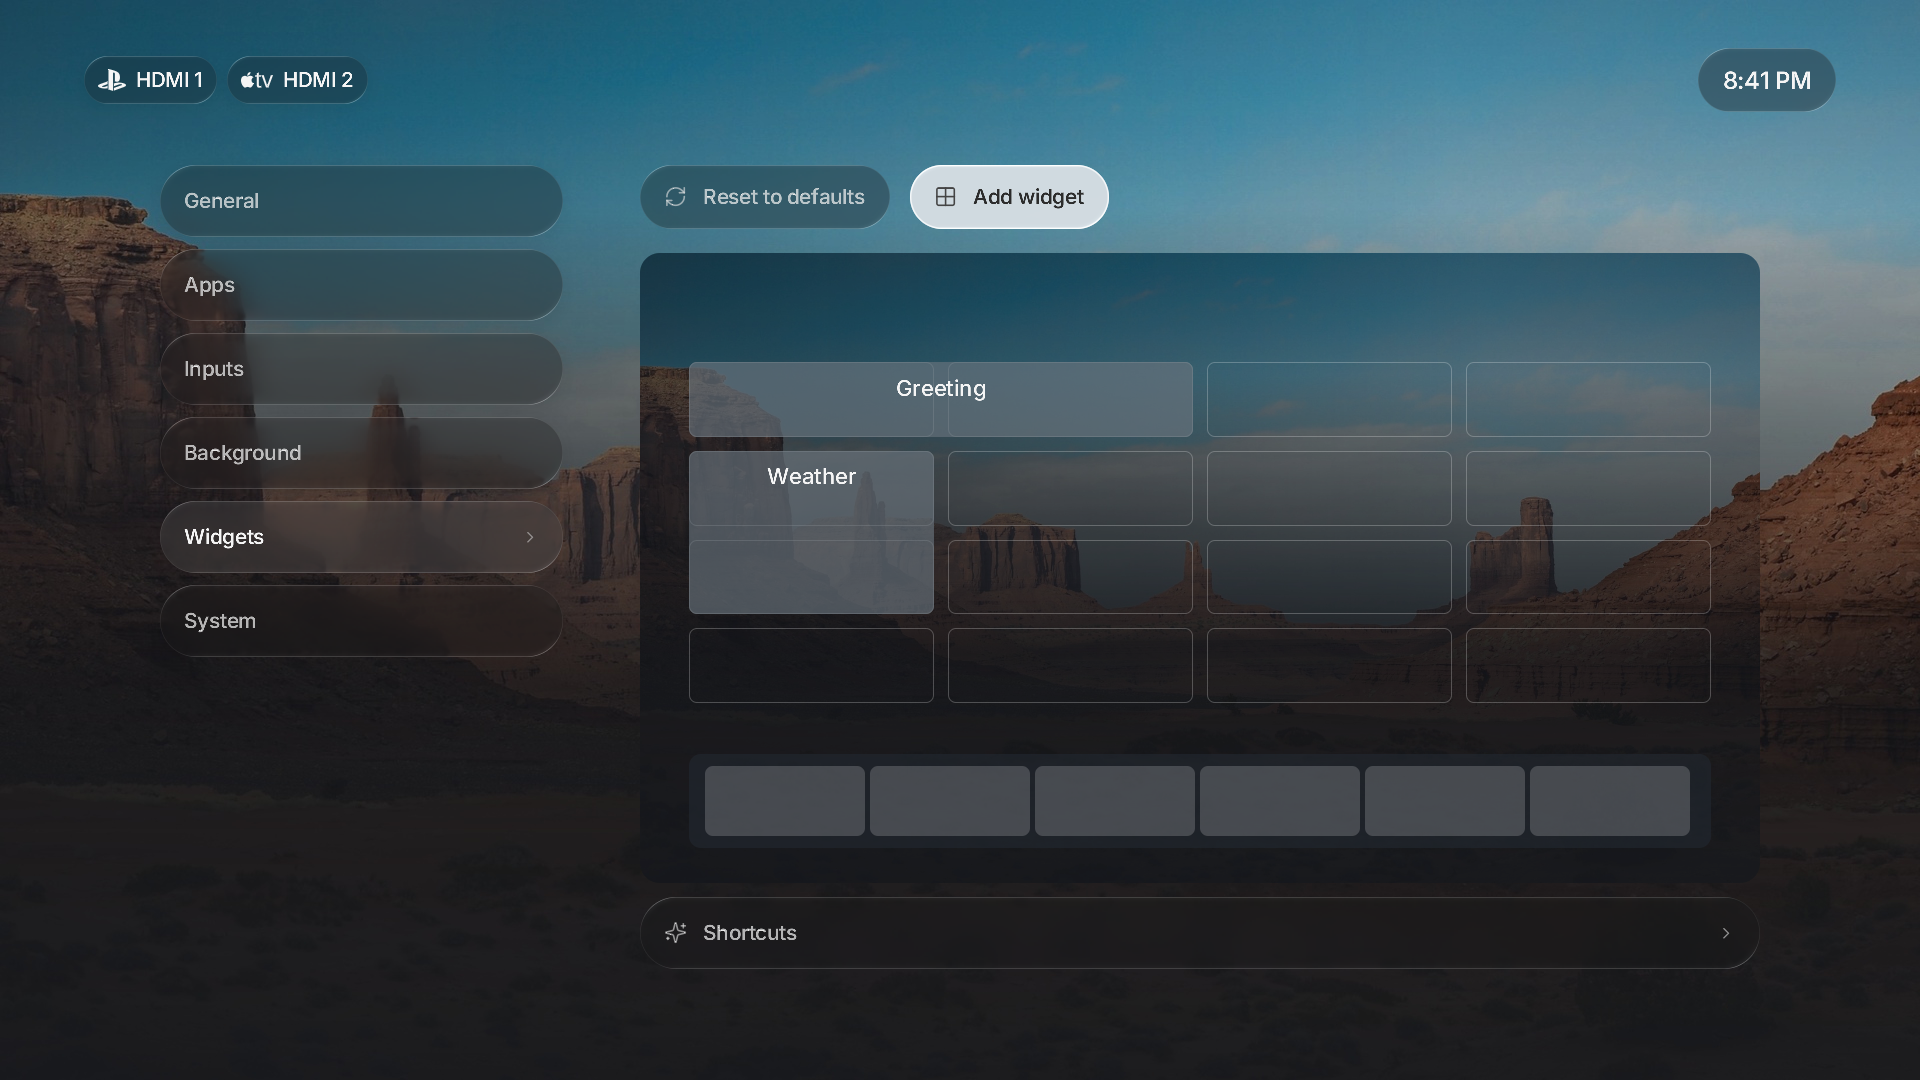
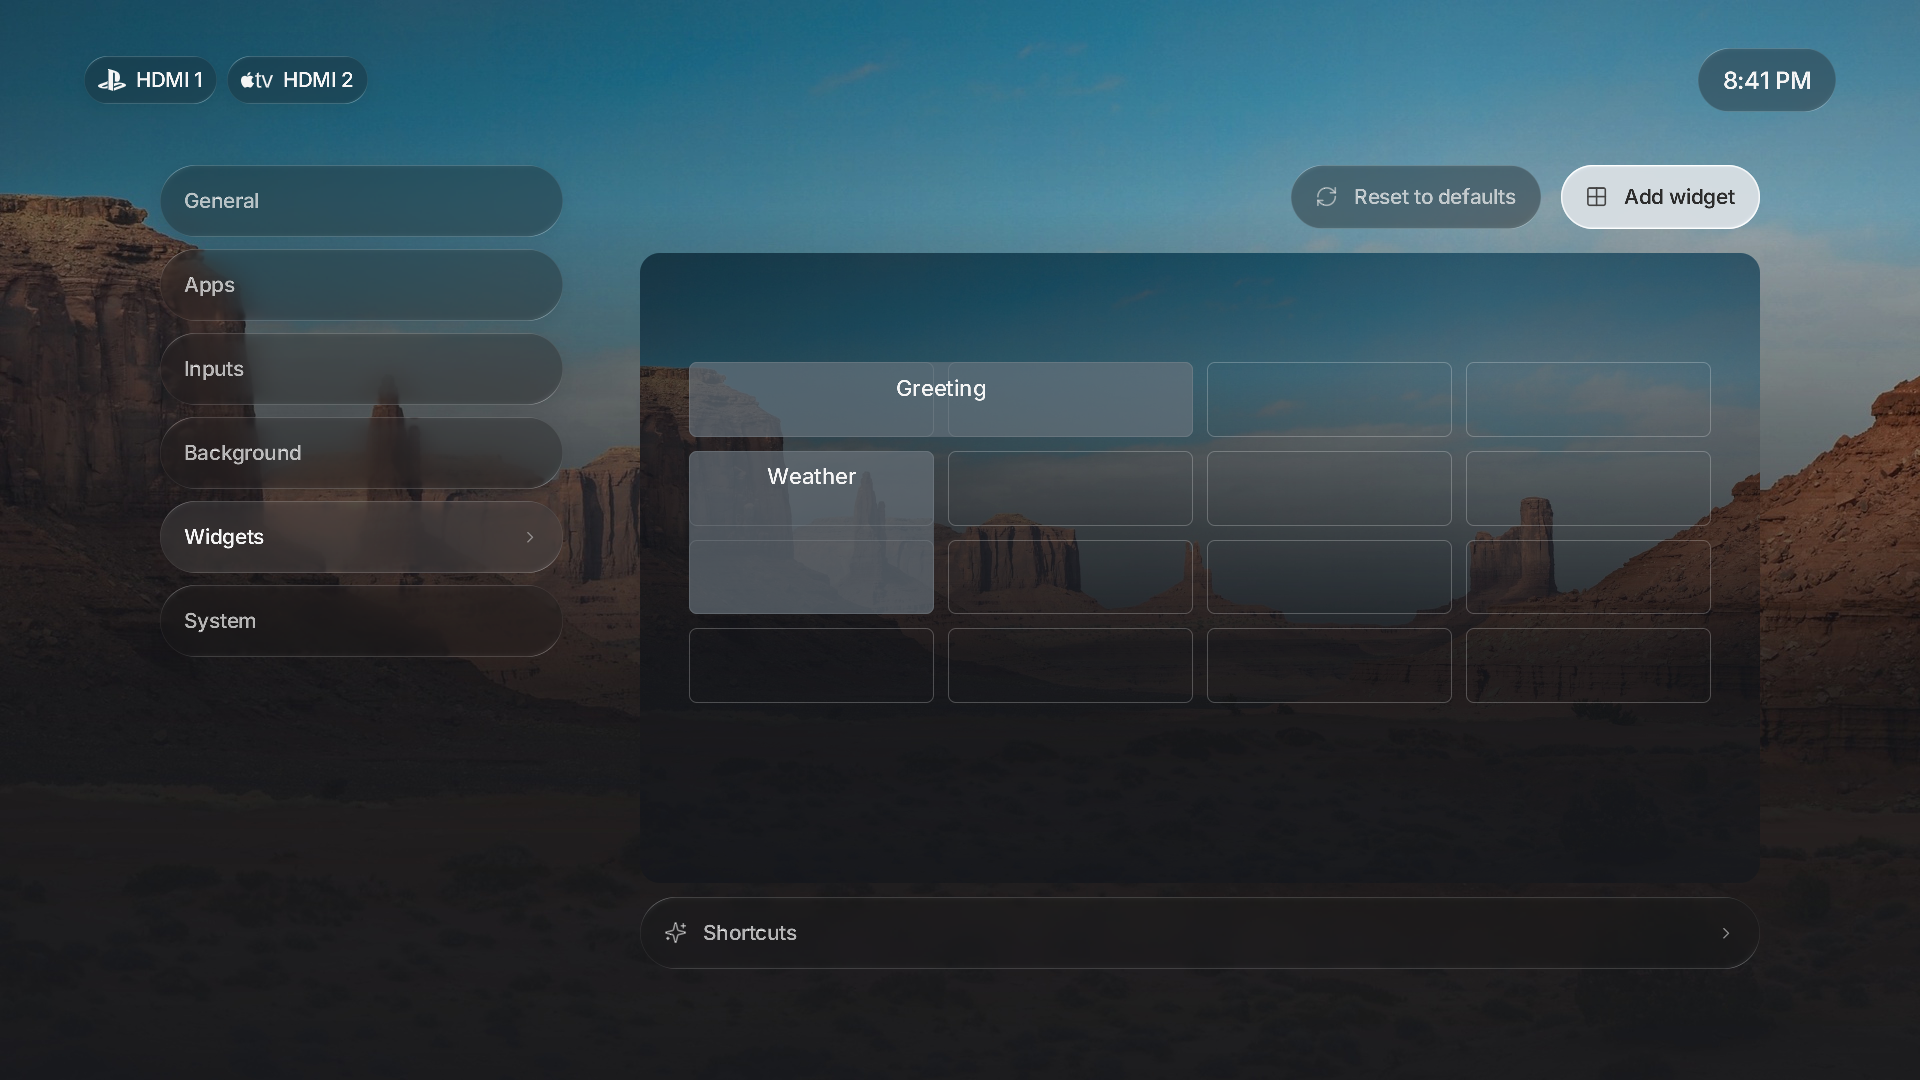
fix(widgets): right-align actions and remove preview dock

Changed region(s): [[0.3438, 0.7028, 0.9062, 0.7944], [0.6562, 0.1528, 0.9375, 0.2139], [0.3125, 0.1528, 0.5938, 0.2139]]

diff --git a/src/view.rs b/src/view.rs
@@ -2639,14 +2639,18 @@ fn settings_content(out: &mut Scene, state: &State, assets: &Assets) {
                     },
                 );
             }
-            let mut x = 640.;
-            for (target, key, icon) in [
+            let actions = [
                 (Target::WidgetReset, "resetWidgets", "refresh"),
                 (Target::WidgetAdd, "addWidget", "grid"),
-            ] {
+            ]
+            .map(|(target, key, icon)| {
                 let width = (assets.width(language.t(key), text(20.8, 550, -0.02)) + 88.)
                     .ceil()
                     .min(500.);
+                (target, key, icon, width)
+            });
+            let mut x = 1760. - actions.iter().map(|(_, _, _, width)| width).sum::<f32>() - 20.;
+            for (target, key, icon, width) in actions {
                 row(
                     out,
                     state,
@@ -2924,21 +2928,6 @@ fn widget_grid(out: &mut Scene, state: &State, assets: &Assets, moving: Option<H
             16.,
         );
         out.text(label, rect.inset(12.), style, WHITE, true);
-    }
-    // Keep the dock visually separate: it is not part of the editable grid.
-    let dock = map(Rect::new(84., 860., 1752., 160.));
-    out.shape(dock, 12., c(0x222831, 0.6));
-    for index in 0..6 {
-        out.shape(
-            Rect::new(
-                dock.x + 16. + index as f32 * (dock.w - 32.) / 6.,
-                dock.y + 12.,
-                (dock.w - 64.) / 6.,
-                dock.h - 24.,
-            ),
-            8.,
-            c(0xffffff, 0.18),
-        );
     }
     let Some(widget) = moving else {
         if let Target::WidgetCell(cell) = state.focus
@@ -4464,6 +4453,35 @@ mod tests {
                     }
                 );
             }
+        }
+    }
+
+    #[test]
+    fn widget_previews_do_not_draw_a_placeholder_dock() {
+        let assets = assets();
+        let mut state = State::new(Preferences::default());
+        state.open(2);
+        state.section = WIDGETS_SECTION;
+        for moving in [None, Some(HomeWidget::Greeting), Some(HomeWidget::Weather)] {
+            state.subpage = moving.map(Subpage::WidgetPosition);
+            state.focus = moving.map_or(Target::WidgetAdd, |widget| {
+                Target::Choice(widget.default_position().cell())
+            });
+            let mut scene = Scene::new();
+            widget_grid(&mut scene, &state, &assets, moving);
+            let dock_top = widget_preview_top(&state) + 860. * 1120. / 1920.;
+            assert!(
+                !scene
+                    .draw
+                    .iter()
+                    .any(|draw| matches!(draw, Draw::Shape(rect, ..) if rect.y >= dock_top))
+            );
+            assert!(
+                !scene
+                    .controls
+                    .iter()
+                    .any(|control| matches!(control.target, Target::App(_) | Target::DockApp(_)))
+            );
         }
     }
 

diff --git a/src/glass-home-tests.rs b/src/glass-home-tests.rs
@@ -80,12 +80,10 @@ fn widget_toolbar_pills_are_fixed_ordered_and_remote_and_pointer_accessible() {
             .iter()
             .find(|control| control.target == Target::WidgetAdd)
             .unwrap();
-        assert_eq!(
-            (reset.rect.x, reset.rect.y, reset.rect.h),
-            (640., 164.8, 64.)
-        );
+        assert_eq!((reset.rect.y, reset.rect.h), (164.8, 64.));
+        assert!(reset.rect.x >= 640.);
         assert!(reset.rect.x + reset.rect.w + 20. <= add.rect.x);
-        assert!(add.rect.x + add.rect.w <= 1760.);
+        assert_eq!(add.rect.x + add.rect.w, 1760.);
         assert!(!reset.scrollable && !add.scrollable);
         for control in [reset, add] {
             let (x, y) = control.rect.center();

diff --git a/development.md b/development.md
@@ -149,10 +149,11 @@ to this arrangement only when a legacy `date_position` field is present; it is o
 Custom Greeting/Weather anchors are preserved, including new layouts matching that old arrangement.
 Sanitization repairs out-of-bounds anchors and overlaps deterministically.
 Settings → Widgets opens the scaled Home grid by default. Each occupied cell opens an app-style
-Configure/Move/Remove popup. A fixed toolbar above the preview contains Reset to defaults on the
+Configure/Move/Remove popup. A fixed, right-aligned toolbar above the preview contains Reset to defaults on the
 left and Add widget on the right, using the Backgrounds pill style. Empty cells also open the
 Add catalog directly; it excludes installed widgets. Reset restores the default membership and
 positions, preserving date/weather configuration and the app dock; an already-default reset does not save.
+The preview shows only widget placements over the wallpaper, without a gray dock placeholder.
 Shortcuts keeps its settings link below the preview. Inputs is a separate sidebar section directly
 below Apps, not a widget. Its list and individual input/icon settings retain focus on return.
 Move and Add open a placement preview; arrows browse

diff --git a/readme.md b/readme.md
@@ -35,7 +35,7 @@ Home widgets use an invisible **4×4 placement grid** above the unchanged favori
 **Weather** is **1 column × 2 rows**. By default Greeting sits on the first row and
 Weather spans the second/third rows, left-aligned. Empty cells remain transparent.
 Open **Settings → Widgets** to see the Home placement grid. Select a widget for an
-app-style **Configure / Move / Remove** menu. Above the grid, **Reset to defaults** sits to the
+app-style **Configure / Move / Remove** menu. At the top right above the grid, **Reset to defaults** sits to the
 left of **Add widget**, using the same pill controls as Backgrounds. The Add menu only lists
 widgets not already on Home; empty cells also open it directly. Configure opens the existing options,
 without a show/hide switch; removing frees its cells but keeps its configuration for re-adding.
